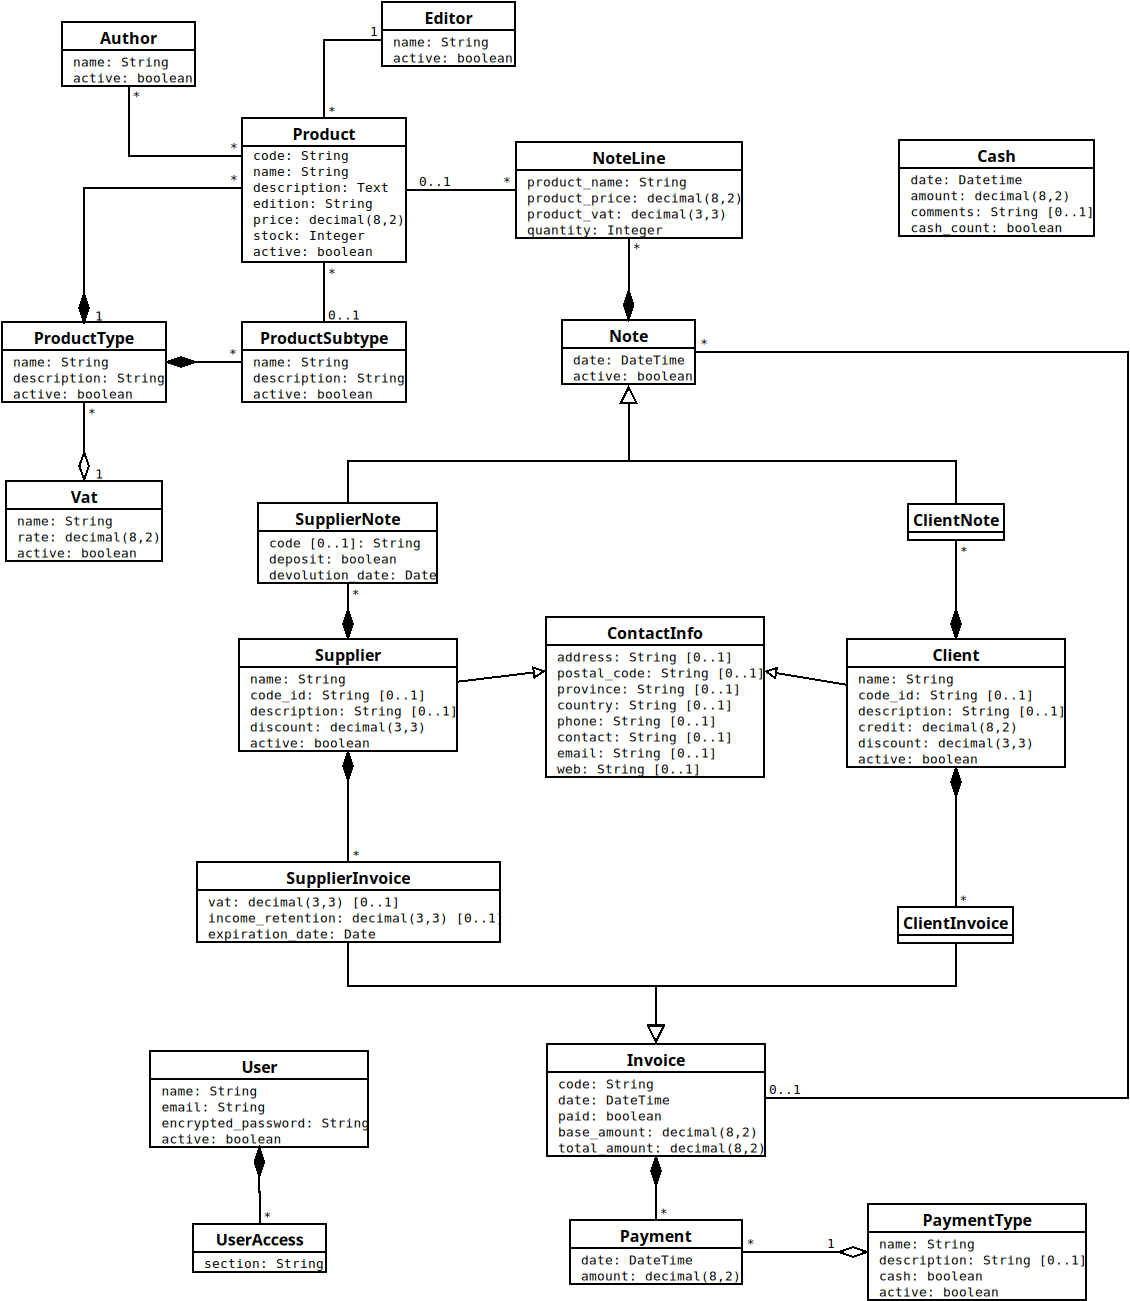
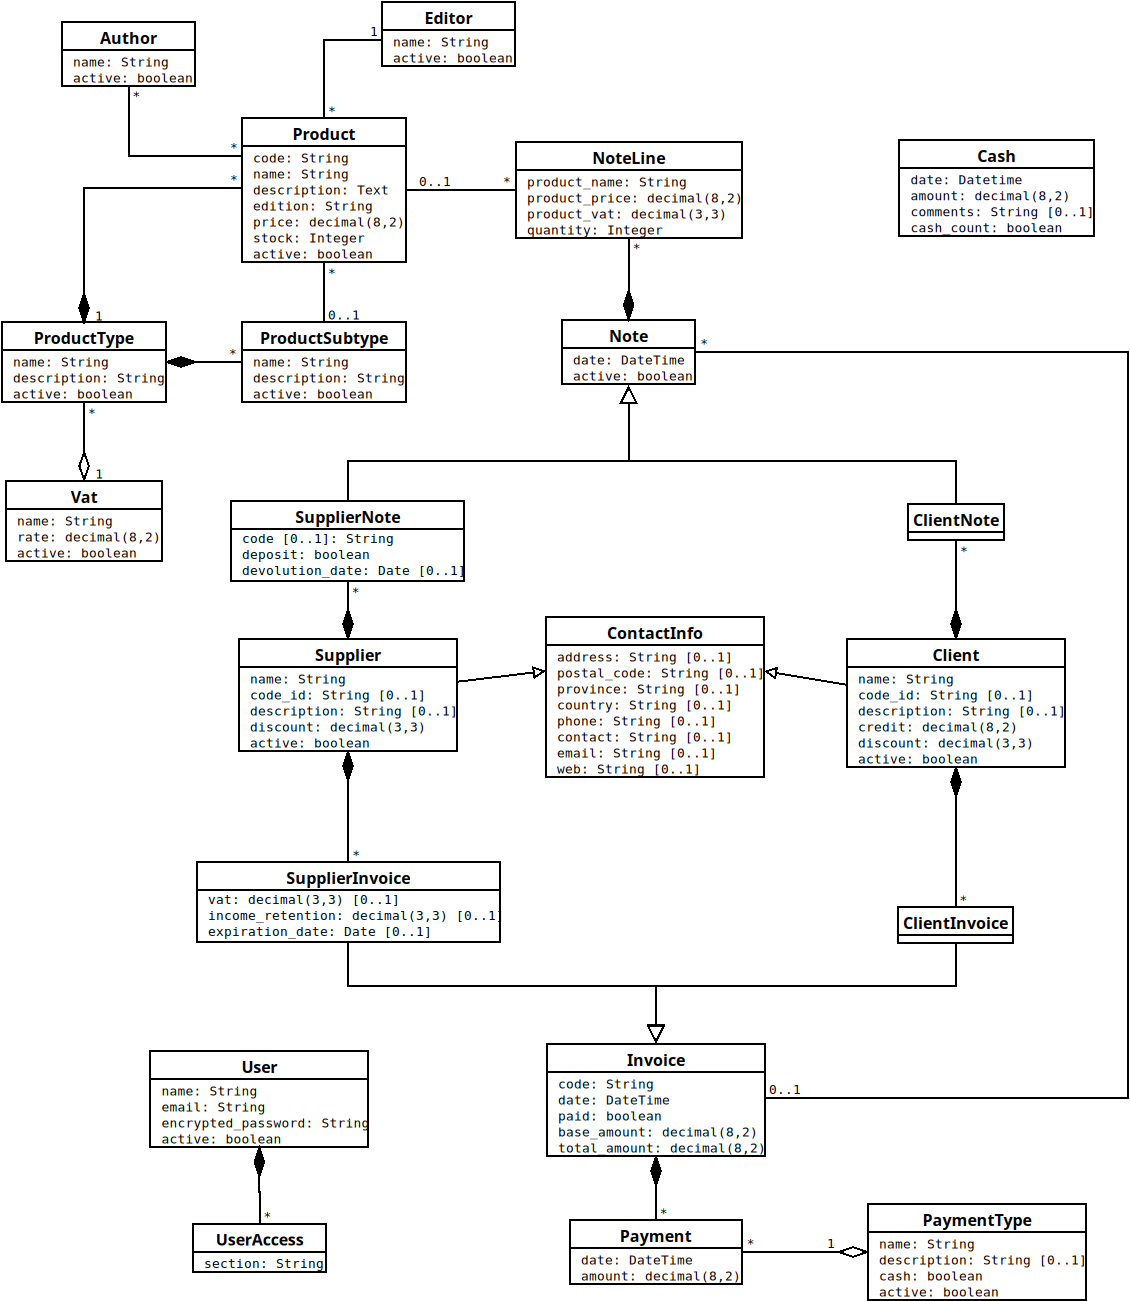
Models and test corrections

Changed region(s): [[0.2168, 0.3689, 0.4027, 0.4612], [0.2168, 0.0922, 0.3407, 0.2152], [0.1858, 0.6764, 0.3717, 0.7379]]

diff --git a/db/schema.rb b/db/schema.rb
@@ -121,7 +121,7 @@ ActiveRecord::Schema[8.0].define(version: 2025_08_14_073450) do
     t.decimal "product_vat", precision: 4, scale: 3, null: false
     t.integer "quantity", default: 1, null: false
     t.bigint "note_id", null: false
-    t.bigint "product_id", null: false
+    t.bigint "product_id"
     t.datetime "created_at", null: false
     t.datetime "updated_at", null: false
     t.index ["note_id"], name: "index_note_lines_on_note_id"
@@ -264,7 +264,6 @@ ActiveRecord::Schema[8.0].define(version: 2025_08_14_073450) do
   add_foreign_key "active_storage_attachments", "active_storage_blobs", column: "blob_id"
   add_foreign_key "active_storage_variant_records", "active_storage_blobs", column: "blob_id"
   add_foreign_key "note_lines", "notes"
-  add_foreign_key "note_lines", "products"
   add_foreign_key "notes", "clients"
   add_foreign_key "notes", "suppliers"
   add_foreign_key "payments", "invoices"

diff --git a/app/models/note_line.rb b/app/models/note_line.rb
@@ -1,13 +1,13 @@
 class NoteLine < ApplicationRecord
   belongs_to :note
-  belongs_to :product
+  belongs_to :product, optional: true
 
   validates :product_name, presence: true
   validates :product_price, presence: true
   validates :product_vat, presence: true, numericality: { greater_than_or_equal_to: 0, less_than_or_equal_to: 1 }
   validates :quantity, presence: true
   validates :note, presence: true
-  validate :avoid_changes_on_disabled_note
+  #validate :avoid_changes_on_disabled_note
 
   before_validation :set_product_values
 

diff --git a/db/migrate/20250807140301_create_note_lines.rb b/db/migrate/20250807140301_create_note_lines.rb
@@ -6,7 +6,7 @@ class CreateNoteLines < ActiveRecord::Migration[8.0]
       t.decimal :product_vat, precision: 4, scale: 3, null: false
       t.integer :quantity, null: false, default: 1
       t.references :note, null: false, foreign_key: true
-      t.references :product, null: false, foreign_key: true
+      t.references :product
       t.timestamps
     end
   end

diff --git a/test/models/note_test.rb b/test/models/note_test.rb
@@ -106,7 +106,7 @@ class NoteTest < ActiveSupport::TestCase
   test "should not update stock for note lines without products" do
     note = notes(:client_note_one)
     note_line = note.note_lines.first
-    note_line.update(product: nil, quantity: 2)
+    note_line.update(product_id: nil, quantity: 2)
 
     # Close the note
     note.close!

diff --git a/app/models/client_invoice.rb b/app/models/client_invoice.rb
@@ -22,6 +22,6 @@ class ClientInvoice < Invoice
   end
 
   def set_invoice_code
-    self.code = Config.next_invoice_code
+    self.code = Config.next_invoice_code if code.blank?
   end
 end
